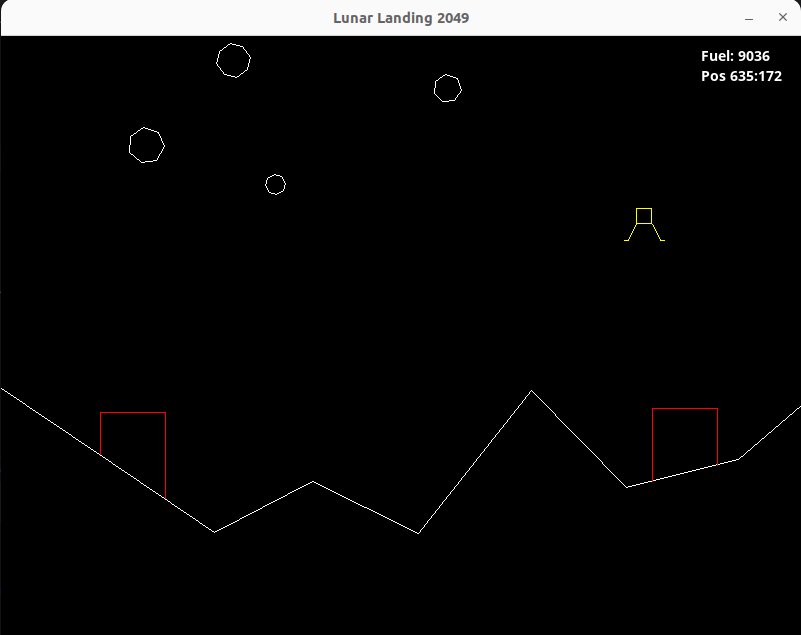
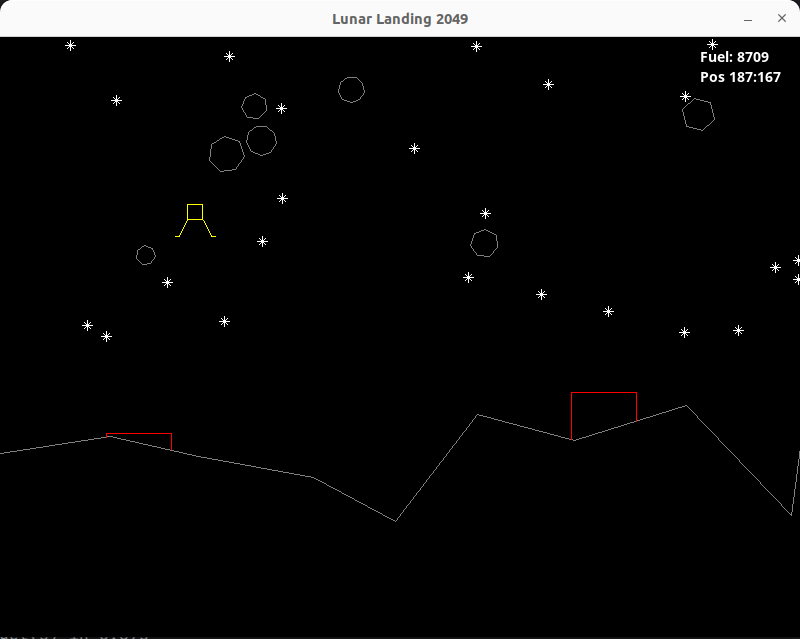
Updated readme document.

diff --git a/README.md b/README.md
@@ -4,7 +4,7 @@ Rust programlama dilinde oyun geliştirmek için popüler birkaç hazır çatıy
 
 Not! Tamamlayamadığım projeleri kendime ibretlik olsun diye garbage isimli klasöre bıraktım.
 
-- [ ] **[28 - dungeon-day](https://github.com/buraksenyurt/game-dev-with-rust/tree/main/dungeon-day):** Bevy oyun motorunu kullanıp board oyunu yazdıran [çok güzel bir öğreti buldum](https://maciejglowka.com/blog/bevy-roguelike-tutorial-devlog-part-1/). Hem detaylı hem de yazıya dökülmüş. Bevy'nin güncel sürümüne göre takip edip yazmaya çalışıyorum. Sonrasında buradaki bilgilerden faydalanıp yine yeni bir oyun yazmayı deneyeceğim.
+- [x] **[29 - lunar_landing](https://github.com/buraksenyurt/game-dev-with-rust/tree/main/lunar_landing):** SDL2 kütüphanesini kullanarak geliştirmeye çalıştığım 1969 yapımı Lunar Landing klonu.
 - [x] **[27 - on-my-way](https://github.com/buraksenyurt/game-dev-with-rust/tree/main/on-my-way)** Bevy oyun motorunu kullanarak yazmaya çalıştığım bir uzay savaş oyunu. Kendi yolunda uzayı keşfe çıkmış kahraman pilotumuz karşısına çıkan meteorları yok etmeye çalışıyor. Füzeleri pahalı ve yakıttan yiyor ve yakıt sürekli azalıyor. Lakin yol boyunca insanlığın gezegenler arasına koyduğu otonomo yakıt istasyonları ile de karşılaşıyor. Onların üstünden geçerken belli süreliğine yakıtını tekrarda yenileyebiliyor. Ve macera bu şekilde gayet anlamsızca devam ediyor :D Maksat Rust kodlamak, Bevy ve ECS ile haşırneşir olmak.
 - [x] **[26 - baller-game](https://github.com/buraksenyurt/game-dev-with-rust/tree/main/baller-game)** Bu çalışmada Fredericj Joubert'in Bevy ECS sistemini örnek bir oyun yazarak anlattığı [video serisini](https://www.youtube.com/playlist?list=PLVnntJRoP85JHGX7rGDu6LaF3fmDDbqyd) uyguluyorum.
 - [x] **[25 - learning-bevy-ecs](https://github.com/buraksenyurt/game-dev-with-rust/tree/main/learning-bevy-ecs)** Bevy ECS sistemindeki query kullanımını denediğim basit örnek.
@@ -34,8 +34,13 @@ Not! Tamamlayamadığım projeleri kendime ibretlik olsun diye garbage isimli kl
   - [ ] **13 - Minesweeper;** [Şu dev.to makalesindeki](https://dev.to/qongzi/bevy-minesweeper-part-1-534c) örneği takip ederek Windows'un meşhur mayın bulma oyununun Bevy oyun motoru ile nasıl yazıldığını öğrenmeye çalışıyorum.
   - [ ] **[20 - jumper: #bevy ](https://github.com/buraksenyurt/game-dev-with-rust/tree/main/garbage/jumper)** Bevy kullanılan basit bir 2D platform macerası. Karakter sürekli zıplayarak bir borudan diğerine atlayarak ilerlemeye çalışır. Yere düşerse yanar. Ne kadar uzağa giderse o kadar başarılır olur. Arada sırada karışdan kendisine çarpabilecek kuş veya başka bir şey de gelebilir.
   - [ ] **[18 - mazes:](https://github.com/buraksenyurt/game-dev-with-rust/tree/main/garbage/mazes)** Jamis Buck'ın [Mazes for Programmers](http://www.mazesforprogrammers.com/) isimli kitabının ilk bölümünde başlayan Binary Tree algoritmasına göre labirent oluşturma ve çözüm için Dijkstra algoritmasının uygulanmasını ele aldığım örnek. Kitap konuyu Ruby ile ele almış ben Rust'a evirmeye çalışıyorum.
+  - [ ] **[28 - dungeon-day](https://github.com/buraksenyurt/game-dev-with-rust/tree/main/dungeon-day):** Bevy oyun motorunu kullanıp board oyunu yazdıran [çok güzel bir öğreti buldum](https://maciejglowka.com/blog/bevy-roguelike-tutorial-devlog-part-1/). Hem detaylı hem de yazıya dökülmüş. Bevy'nin güncel sürümüne göre takip edip yazmaya çalışıyorum. Sonrasında buradaki bilgilerden faydalanıp yine yeni bir oyun yazmayı deneyeceğim.
 
 ## Örnek Çalışma Zamanları
+
+1969 yapımı Lunar Landing oyunundan esinlenerek SLD2 kütüphanesini kullanarak yazmaya çalıştığım oyuna ait bir çalışma zamanı görüntüsü.
+
+![Lunar Landing 2029](assets/lunar_landing.gif)
 
 Bevy ile yazdığım On My Way isimli oyuna ait bir ekran görüntüsü. Oyunda Mars'a ulaşmak isteyen kahraman uzay gemimiz yoluna çıkan göktaşlarını yok etmeye uğraşıyor.
 
